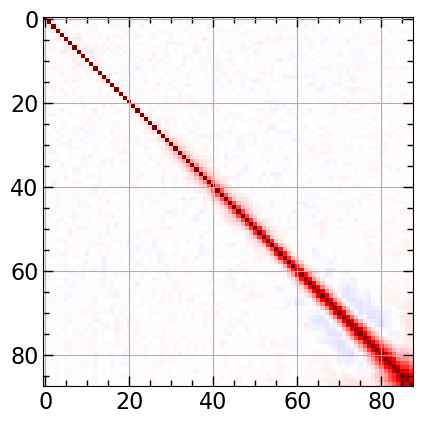
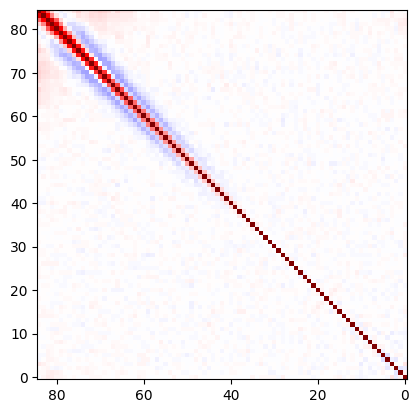
updates to chi2 catalog based on edr

diff --git a/docs/source/examples/lookChi2Catalog.rst b/docs/source/examples/lookChi2Catalog.rst
@@ -1,6 +1,8 @@
 Look into output files
 ========================
 
+This tutorial builds on the DESI early data release example detailed in :ref:`Quick Start <edr example and workaround>`. I assume you have access to the EDR data, created ``QSO_cat_fuji_healpix_only_qso_targets_sv3_fix.fits`` file that fixes the compatibility issue, and obtained deltas.
+
 .. code:: python3
 
     import fitsio
@@ -9,7 +11,9 @@ Look into output files
 
 .. code:: python3
 
-    fchi2 = fitsio.FITS("Delta-co1/continuum_chi2_catalog.fits")[1]
+    # Point to output delta folder
+    output_delta_folder = "Delta-co1"
+    fchi2 = fitsio.FITS(f"{output_delta_folder}/continuum_chi2_catalog.fits")[1]
     fchi2
 
 .. parsed-literal::
@@ -19,14 +23,15 @@ Look into output files
       extension: 1
       type: BINARY_TBL
       extname: CHI2_CAT
-      rows: 471137
+      rows: 411359
       column info:
         TARGETID            i8  
         Z                   f4  
         HPXPIXEL            i8  
-        MPI_RANK            i4  
-        MEANSNR             f4  
+        ARMS                S5  
+        MEANSNR             f4  array[3]
         RSNR                f4  
+        MPI_RANK            i4  
         CONT_valid          b1  
         CONT_chi2           f4  
         CONT_dof            i4  
@@ -54,71 +59,62 @@ Look into output files
 .. image:: ../_static/chi2cat_hist.png
 
 
-Now let us investigate the ``attributes.fits`` file, which contain mean continuum, varlss-eta and stacked flux values for all iterations. Note this version lacks the final extensions, but they are the same as shown from another file.
+Now let us investigate the ``attributes.fits`` file, which contains the mean continuum in ``CONT-i`` extensions, stacked fluxes in observed frame in ``STACKED_FLUX-i``, in rest-frame in ``STACKED_FLUX_RF-i`` extensions, and varlss-eta values in ``VAR_FUNC-i`` extenstions for all iterations.
 
 .. code:: python3
 
-    fattr = fitsio.FITS("Delta-co1/attributes.fits")
+    fattr = fitsio.FITS(f"{output_delta_folder}/attributes.fits")
     fattr
-
-
 
 
 .. parsed-literal::
 
     
       file: Delta-co1/attributes.fits
-      mode: READONLY
       extnum hdutype         hduname[v]
       0      IMAGE_HDU       
       1      BINARY_TBL      CONT-1
-      2      BINARY_TBL      VAR_FUNC-1
-      3      BINARY_TBL      CONT-2
-      4      BINARY_TBL      VAR_FUNC-2
-      5      BINARY_TBL      CONT-3
-      6      BINARY_TBL      VAR_FUNC-3
-      7      BINARY_TBL      CONT-4
-      8      BINARY_TBL      VAR_FUNC-4
-      9      BINARY_TBL      CONT-5
-      10     BINARY_TBL      VAR_FUNC-5
-      11     BINARY_TBL      CONT-6
-      12     BINARY_TBL      VAR_FUNC-6
-      13     BINARY_TBL      CONT-7
-      14     BINARY_TBL      VAR_FUNC-7
-
-The final iteration extensions can now be found ``attributes.fits`` as of version>=0.6.
-
-.. code:: python3
-
-    fstats = fitsio.FITS("Delta-co1/var_stats/qsonic-eta-fits-snr0.0-100.0-variance-stats.fits")
-    fstats
-
-
-
-
-.. parsed-literal::
-
-    
-      file: Delta-co1/var_stats/qsonic-eta-fits-snr0.0-100.0-variance-stats.fits
-      mode: READONLY
-      extnum hdutype         hduname[v]
-      0      IMAGE_HDU       
-      1      BINARY_TBL      VAR_STATS
-      2      BINARY_TBL      VAR_FUNC
-      3      BINARY_TBL      STACKED_FLUX
+      2      BINARY_TBL      STACKED_FLUX-1
+      3      BINARY_TBL      STACKED_FLUX_RF-1
+      4      BINARY_TBL      VAR_FUNC-1
+      5      BINARY_TBL      CONT-2
+      6      BINARY_TBL      STACKED_FLUX-2
+      7      BINARY_TBL      STACKED_FLUX_RF-2
+      8      BINARY_TBL      VAR_FUNC-2
+      9      BINARY_TBL      CONT-3
+      10     BINARY_TBL      STACKED_FLUX-3
+      11     BINARY_TBL      STACKED_FLUX_RF-3
+      12     BINARY_TBL      VAR_FUNC-3
+      13     BINARY_TBL      CONT-4
+      14     BINARY_TBL      STACKED_FLUX-4
+      15     BINARY_TBL      STACKED_FLUX_RF-4
+      16     BINARY_TBL      VAR_FUNC-4
+      17     BINARY_TBL      CONT-5
+      18     BINARY_TBL      STACKED_FLUX-5
+      19     BINARY_TBL      STACKED_FLUX_RF-5
+      20     BINARY_TBL      VAR_FUNC-5
+      21     BINARY_TBL      CONT-6
+      22     BINARY_TBL      STACKED_FLUX-6
+      23     BINARY_TBL      STACKED_FLUX_RF-6
+      24     BINARY_TBL      VAR_FUNC-6
+      25     BINARY_TBL      CONT
+      26     BINARY_TBL      STACKED_FLUX
+      27     BINARY_TBL      STACKED_FLUX_RF
+      28     BINARY_TBL      VAR_FUNC
+      29     BINARY_TBL      VAR_STATS
 
 
 
 .. code:: python3
 
-    fstats['VAR_STATS']
+    fattr['VAR_STATS']
 
 
 .. parsed-literal::
 
     
-      file: Delta-co1/var_stats/qsonic-eta-fits-snr0.0-100.0-variance-stats.fits
-      extension: 1
+      file: Delta-co1/attributes.fits
+      extension: 29
       type: BINARY_TBL
       extname: VAR_STATS
       rows: 2500
@@ -138,7 +134,7 @@ Note you will have ``cov_var_delta`` only if you ran ``qsonic-fit`` with ``--var
 
 .. code:: python3
 
-    fstats['VAR_STATS'].read_header()
+    fattr['VAR_STATS'].read_header()
 
 
 
@@ -188,41 +184,75 @@ Note you will have ``cov_var_delta`` only if you ran ``qsonic-fit`` with ``--var
 
 
 
-.. code:: python3
+Plotting var_pipe vs var_obs for a wavelength bin
+-------------------------------------------------
 
-    nwbins = fstats['VAR_STATS'].read_header()['NWBINS']
-    nvarbins = fstats['VAR_STATS'].read_header()['NVARBINS']
+.. code:: ipython3
 
-    var_stats_data = fstats['VAR_STATS'].read().reshape(nwbins, nvarbins)
-
-
+    hdr = fattr['VAR_STATS'].read_header()
+    nwbins = hdr['NWBINS']
+    nvarbins = hdr['NVARBINS']
+    min_nqso = hdr['MINNQSO']
+    min_npix = hdr['MINNPIX']
+    del hdr
+    
+    var_stats_data = fattr['VAR_STATS'].read().reshape(nwbins, nvarbins)
+    
+    # Pick a wavelength bin to plot
     iw = 2
     dat = var_stats_data[iw]
-    valid = (dat['num_pixels'] > 500) & (dat['num_qso'] > 50)
+    valid = (dat['num_qso'] >= min_nqso) & (dat['num_pixels'] >= min_npix)
     dat = dat[valid]
     
-    plt.errorbar(dat['var_pipe'], dat['var_delta'], dat['e_var_delta'], fmt='-')
+    plt.errorbar(
+        dat['var_pipe'], dat['var_delta'], dat['e_var_delta'],
+        fmt='.', alpha=1, label=f"{np.mean(dat['wave']):.0f} A")
     plt.xlabel("Pipeline variance")
     plt.ylabel("Observed variance")
     plt.xscale("log")
     plt.yscale("log")
+    plt.grid()
+    plt.legend()
     plt.show()
-    
-    plt.errorbar(dat['var_pipe'], dat['mean_delta'], fmt='.-')
-    plt.xlabel("Pipeline variance")
-    plt.ylabel("Observed mean delta")
-    plt.xscale("log")
-    plt.show()
-    
+
+
+
+.. image:: chi2cat_varpipe-obs.png
+
+
+Plot covariance between these points
+------------------------------------
+
+.. code:: ipython3
+
     cov = dat['cov_var_delta'][:, valid]
     norm = np.sqrt(cov.diagonal())
     plt.imshow(cov / np.outer(norm, norm), vmin=-1, vmax=1, cmap=plt.cm.seismic)
+    plt.gca().invert_yaxis()
+    plt.gca().invert_xaxis()
+    plt.show()
 
 
-.. image:: ../_static/chi2cat_varpipe-obs.png
 
-.. image:: ../_static/chi2cat_varpipe-mean.png
-
-.. image:: ../_static/chi2cat_covariance.png
+.. image:: chi2cat_covariance.png
 
 
+Plot var_pipe vs mean_delta
+---------------------------
+
+.. code:: ipython3
+
+    plt.errorbar(
+        dat['var_pipe'], dat['mean_delta'], np.sqrt(dat['var_delta'] / dat['num_pixels']),
+        fmt='.', alpha=1, label=f"{np.mean(dat['wave']):.0f} A")
+    plt.xlabel("Pipeline variance")
+    plt.ylabel("Observed mean delta")
+    plt.xscale("log")
+    plt.grid()
+    plt.axhline(0, c='k')
+    plt.legend()
+    plt.show()
+
+
+
+.. image:: chi2cat_varpipe-mean.png
